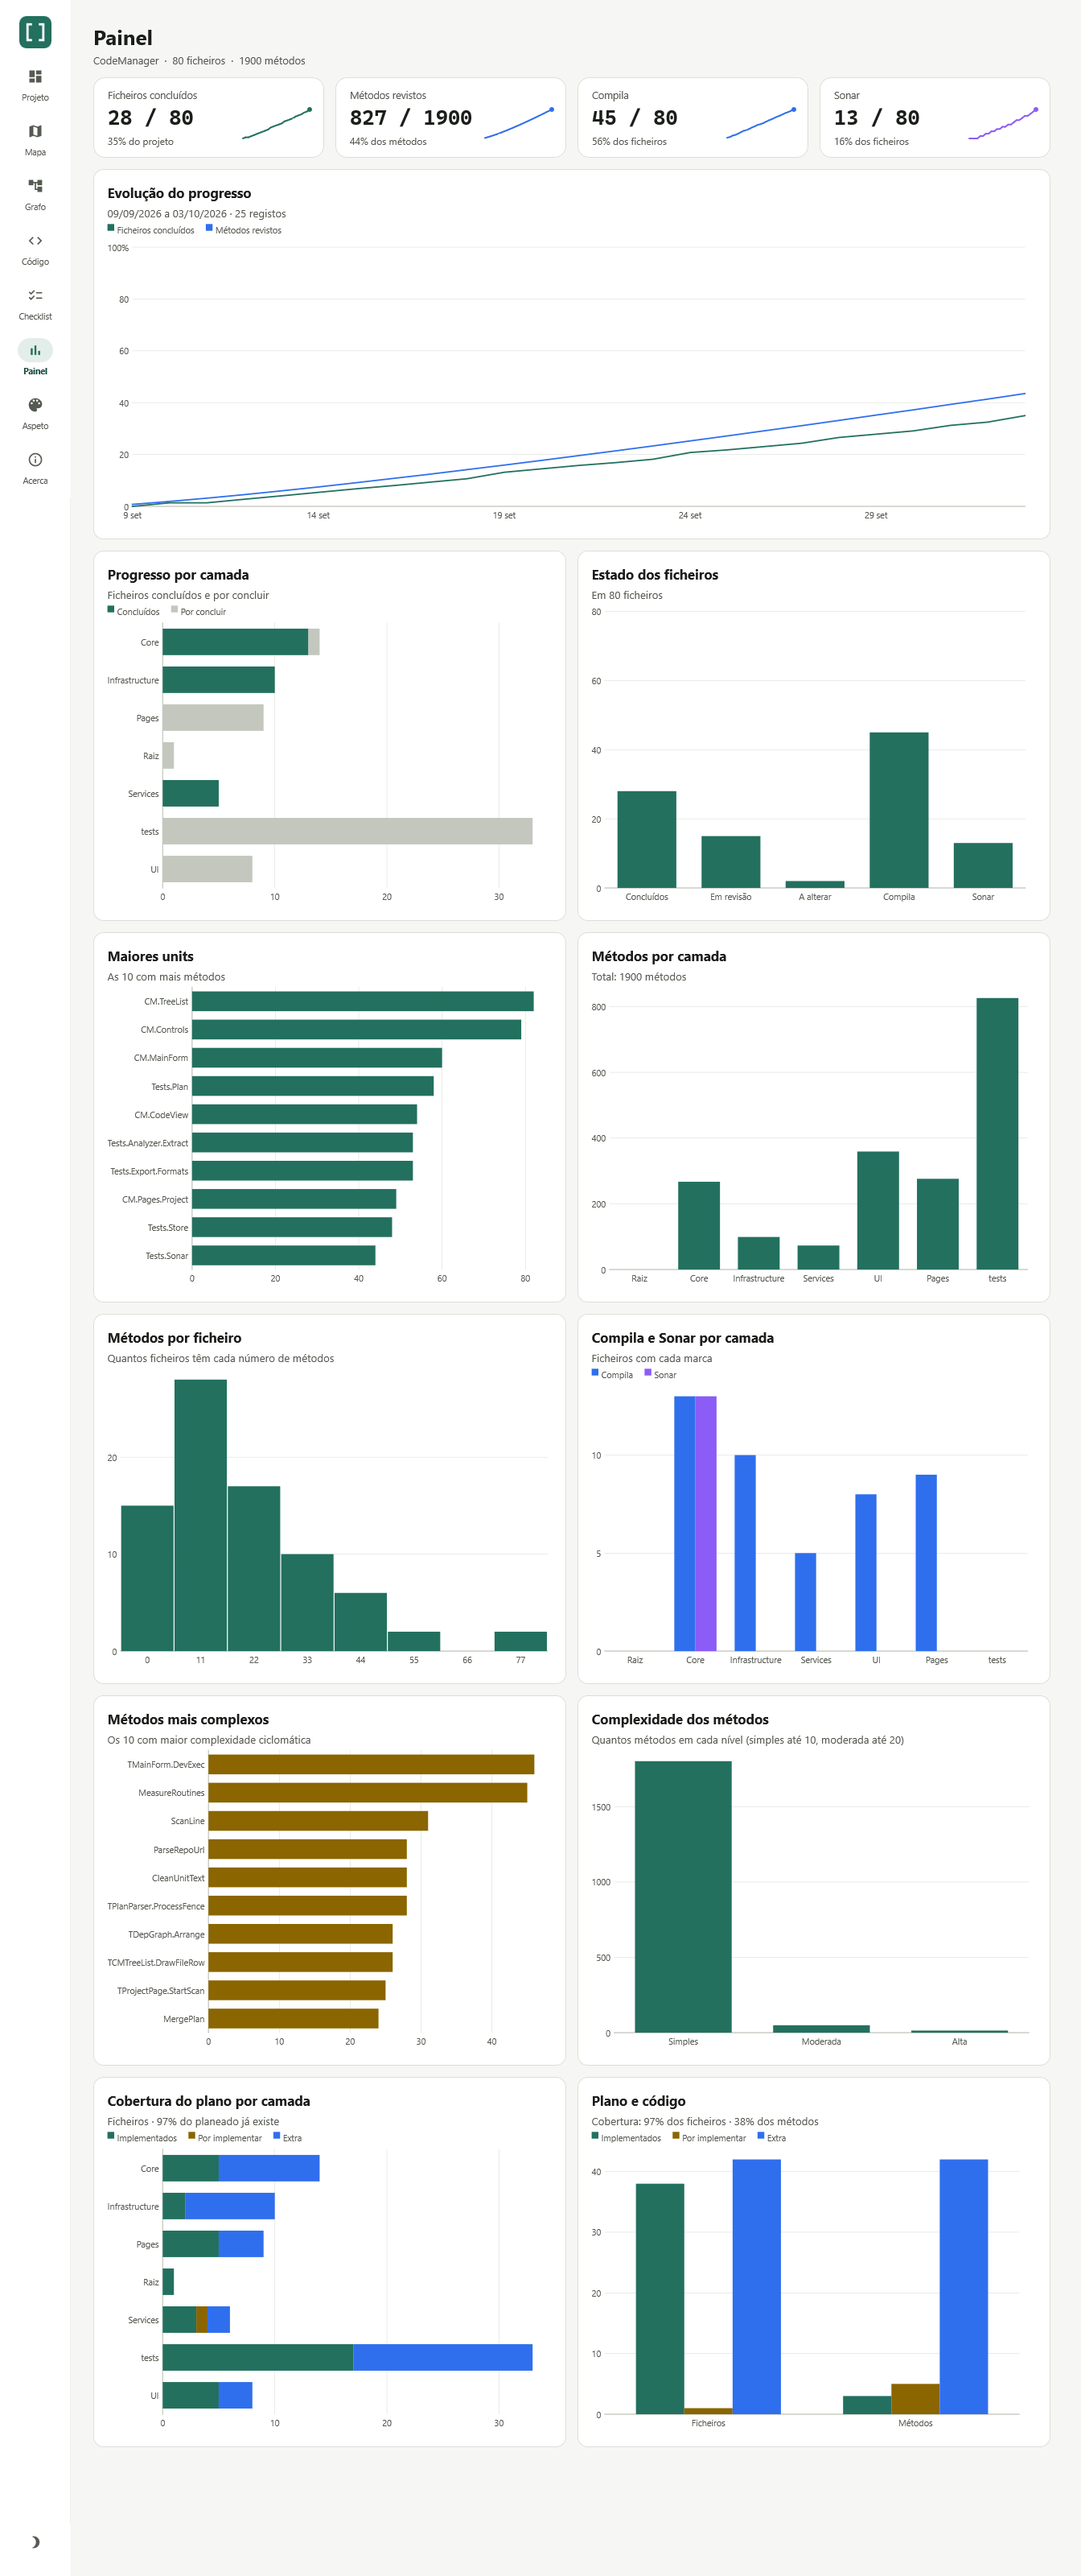
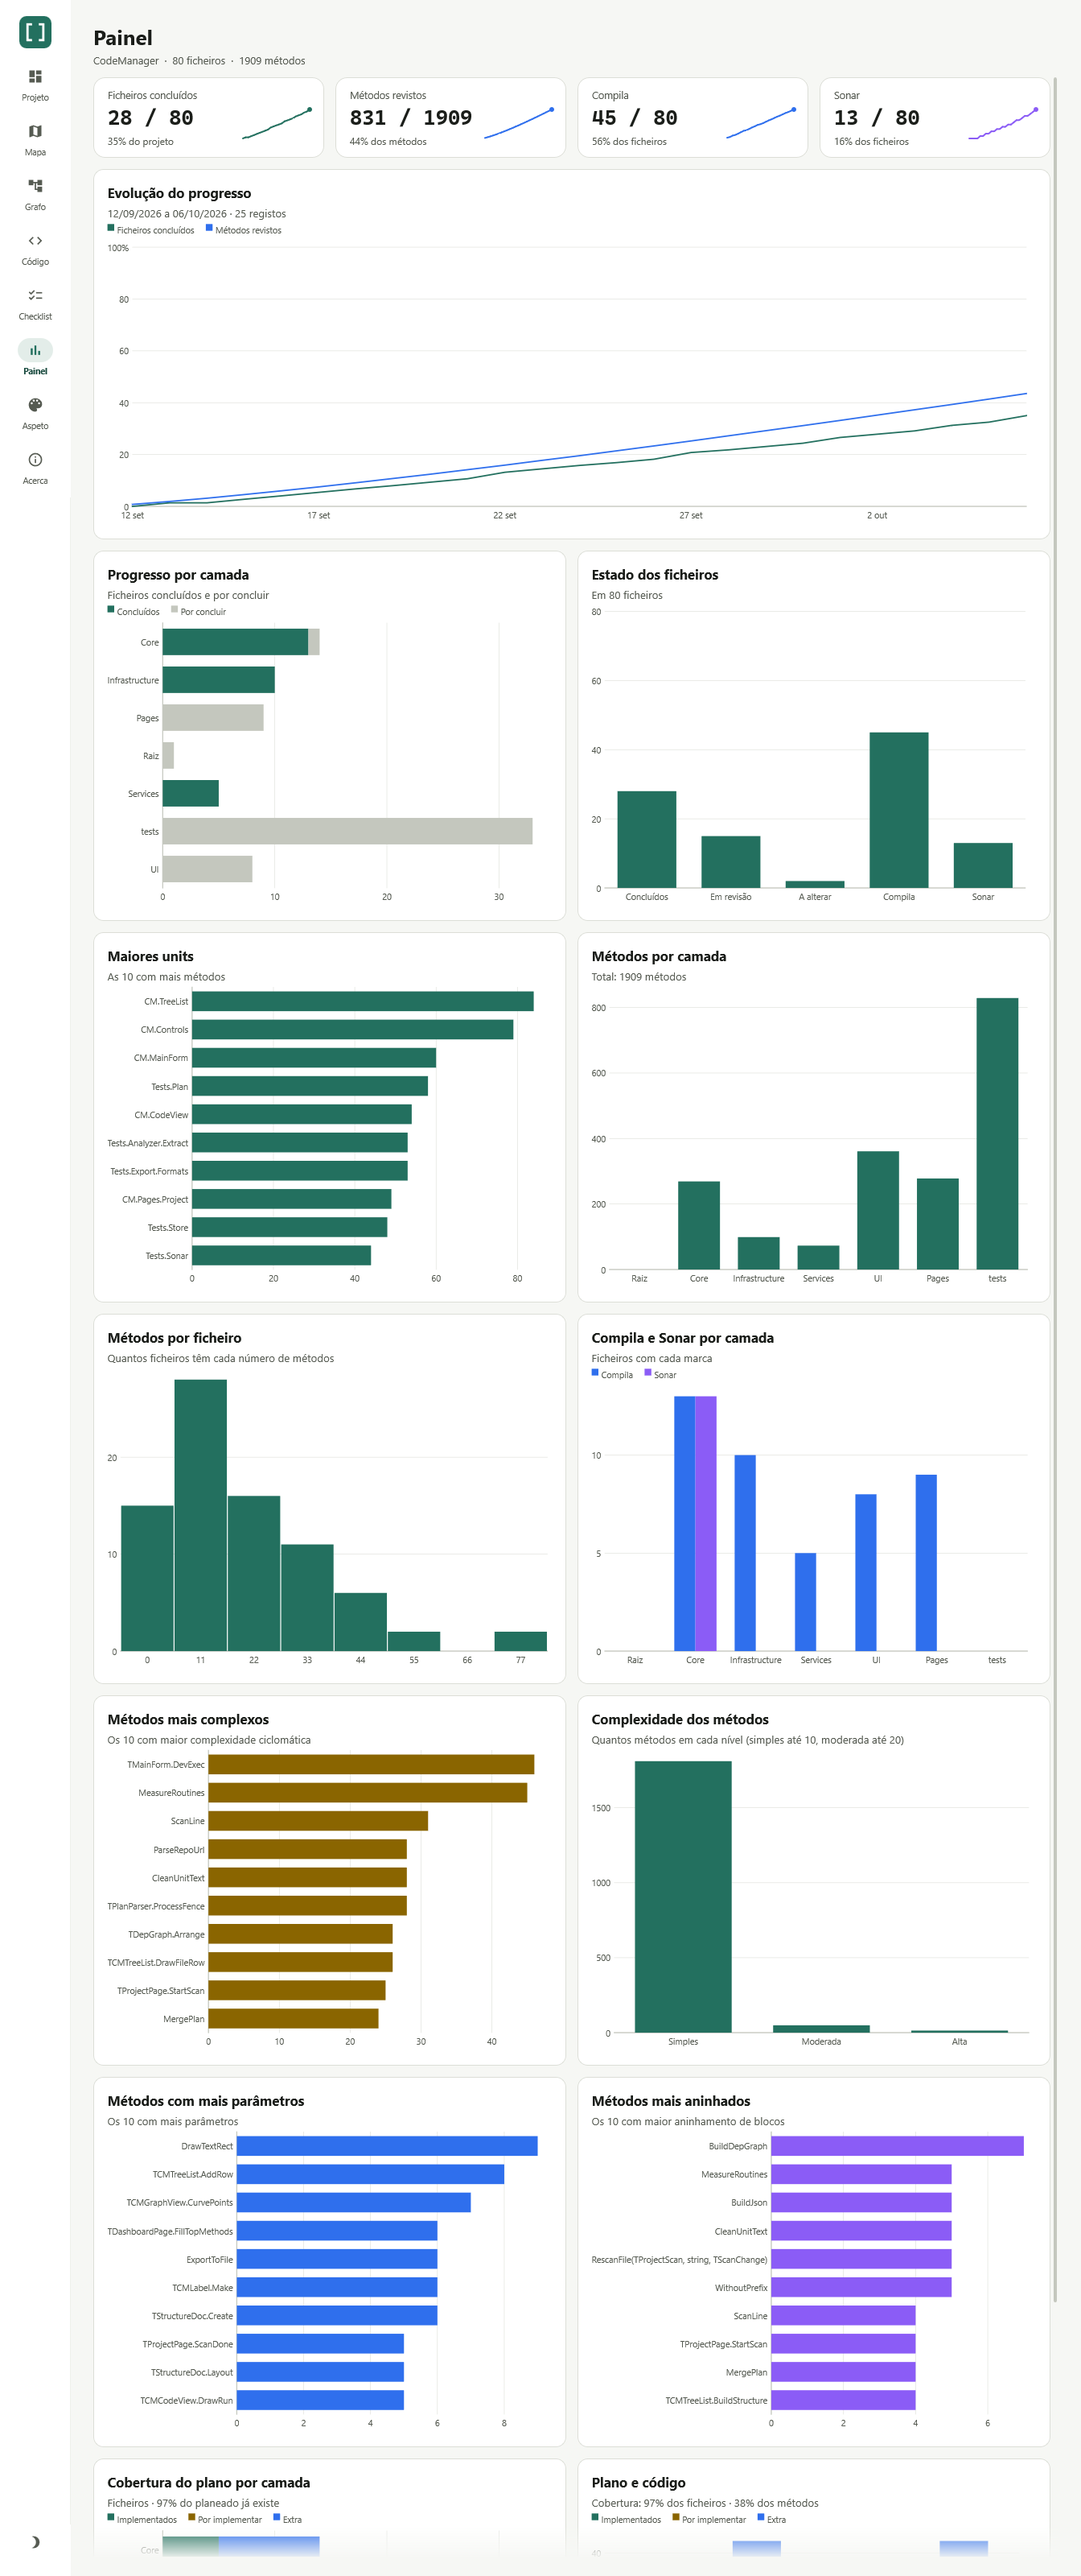
Painel: métodos com mais parâmetros e mais aninhados
Claude-Session: https://claude.ai/code/session_0111EZAtdZwndZtVnbChZwK2

diff --git a/docs/GUIA-DO-UTILIZADOR.md b/docs/GUIA-DO-UTILIZADOR.md
@@ -316,6 +316,7 @@ Uma vista de conjunto, com gráficos que seguem o tema.
   camada**, **Métodos por ficheiro** (histograma) e **Compila e Sonar por camada**.
 - **Métodos mais complexos** (os 10 com maior complexidade ciclomática) e **Complexidade dos métodos** (quantos há
   em cada nível).
+- **Métodos com mais parâmetros** e **Métodos mais aninhados** (os 10 de cada, só com valor acima de zero).
 - Passa o rato pelos gráficos para ver os valores.
 - Em janelas estreitas os cartões reorganizam-se em menos colunas.
 

diff --git a/CHANGELOG.md b/CHANGELOG.md
@@ -13,6 +13,7 @@ Todas as alterações relevantes ficam registadas aqui. O formato segue o
   aninhamento âmbar a partir de 4 e vermelho acima de 5.
 - **Páginas HTML exportadas:** o mapa e a checklist mostram as linhas, a complexidade, os parâmetros e o
   aninhamento de cada método, com as mesmas cores de aviso e dicas traduzidas.
+- **Painel:** dois gráficos novos, **Métodos com mais parâmetros** e **Métodos mais aninhados** (os 10 de cada).
 
 ## [1.0.1] - 2026-10-03
 
